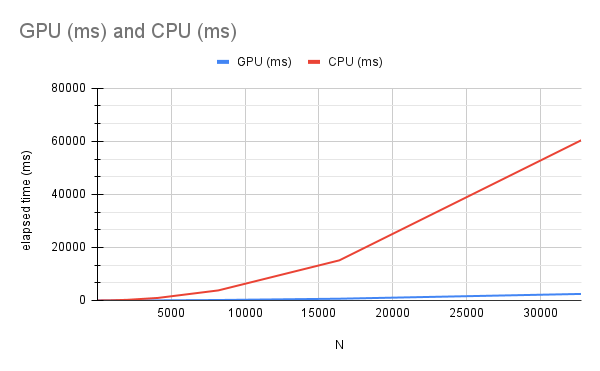
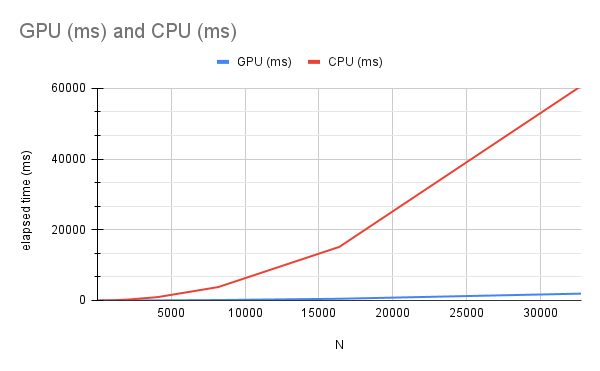
fix: adjust gpu run configuration, events cleanup, updated benchmarks

diff --git a/README.md b/README.md
@@ -27,29 +27,29 @@ Program GPU RAM Limit: 8589934592 bytes
 Size of int: 4 bytes
 
 generating mandelbrot set using GPU ...
-GPU elapsed time: 2500.36 ms
+GPU elapsed time: 1931.32 ms
 generating mandelbrot set using CPU ...
-CPU elapsed time: 60430.7 ms
+CPU elapsed time: 60691.2 ms
 
-24.1688x speedup, errors: 288
+31.4247x speedup, errors: 288
 ```
 
 ## Benchmarks
 
 |N|GPU (ms)|CPU (ms)|speed factor|status|
 |-|--------|--------|------------|------|
-|16|1.4442|0.0188|0.01301758759|slower|
-|32|1.4157|0.0833|0.05884014975|slower|
-|64|1.4912|0.3119|0.2091604077|slower|
-|128|1.5119|1.1432|0.756134665|slower|
-|256|1.8403|4.1549|2.257729718|faster|
-|512|2.6279|15.689|5.970166292|faster|
-|1024|4.114|60.0309|14.59185707|faster|
-|2048|11.6091|237.778|20.48203564|faster|
-|4096|39.2214|948.176|24.17496571|faster|
-|8192|167.449|3786.05|22.61016787|faster|
-|16384|654.993|15124.1|23.09047578|faster|
-|32768|2460.3|60438|24.56529692|faster|
+|16|1.4611|0.024|0.01642598043|slower|
+|32|1.4162|0.0687|0.04851009744|slower|
+|64|1.5048|0.2563|0.1703216374|slower|
+|128|1.482|0.9973|0.6729419703|slower|
+|256|1.732|3.8892|2.245496536|faster|
+|512|2.2863|15.1371|6.620784674|faster|
+|1024|3.2607|59.7921|18.33719753|faster|
+|2048|8.7413|238.792|27.31767586|faster|
+|4096|29.7729|949.678|31.89739663|faster|
+|8192|121.111|3791.4|31.30516634|faster|
+|16384|476.03|15152.9|31.83181732|faster|
+|32768|1931.32|60691.2|31.42472506|faster|
 
 where:
 - **N** - length of the square image's side (in pixels)
